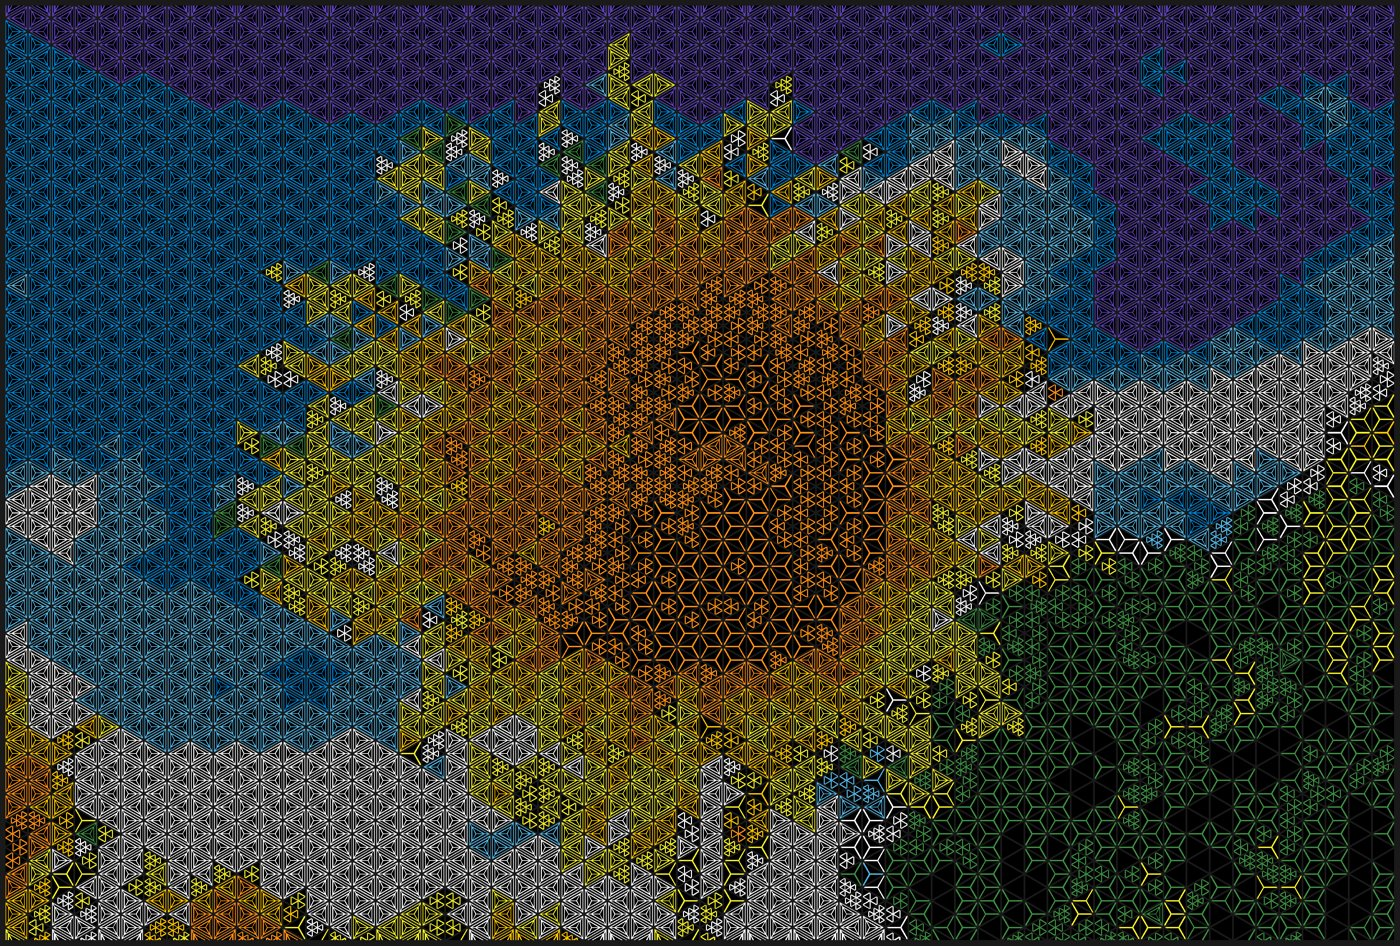
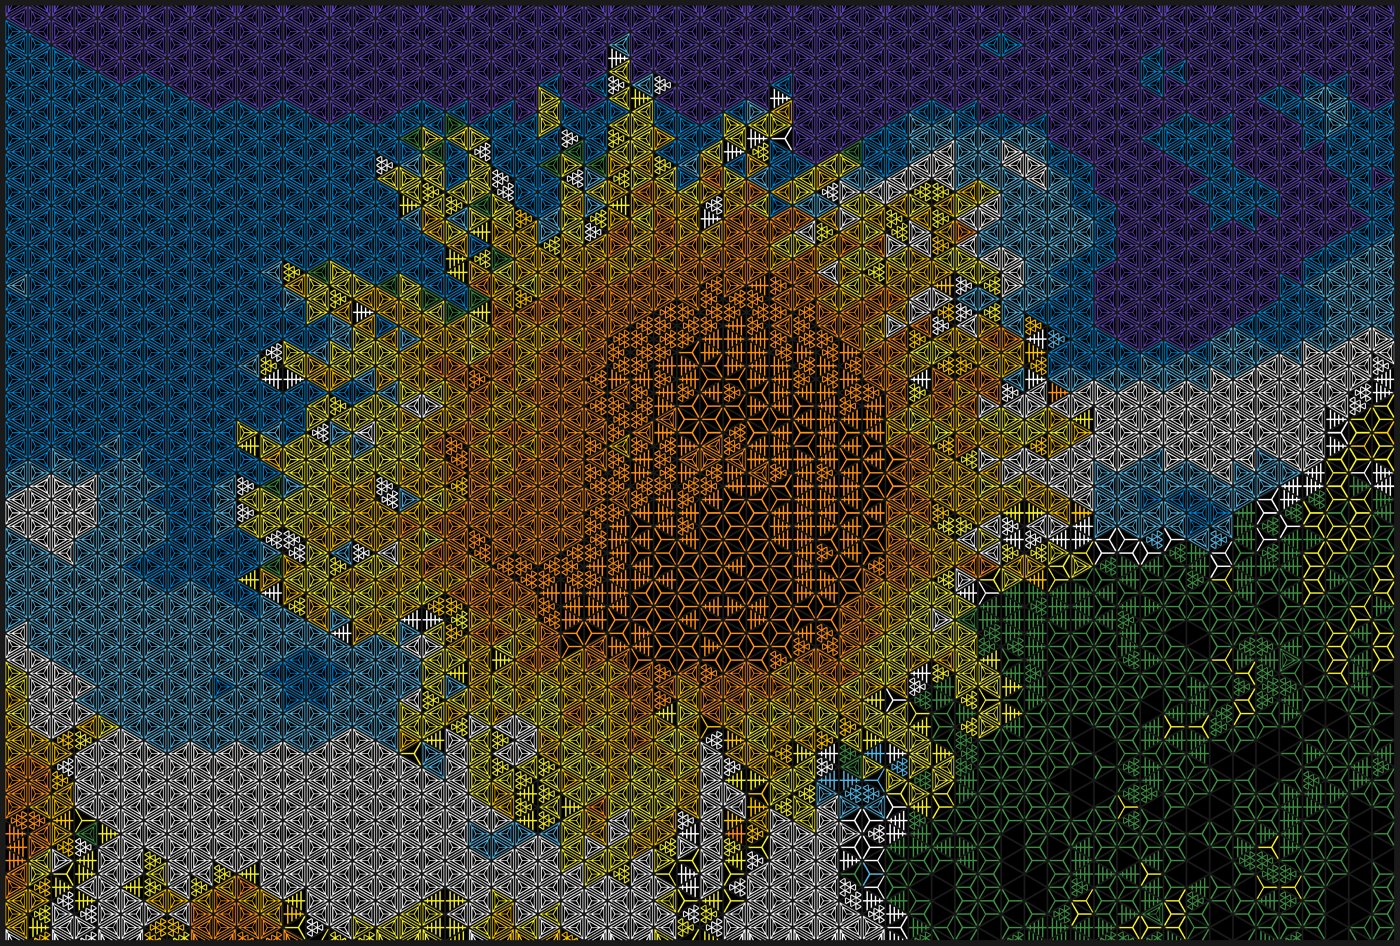
Line boost: require colour coherence so texture does not trigger it
Thin features must have a consistent colour (CIELAB spread < 34) to take over a cell;
threshold chosen by sweeping 20/26/34 on five sample images (cables kept, no new speckle).
Gallery rebuilt.

diff --git a/examples/gallery/index.html b/examples/gallery/index.html
@@ -2,26 +2,25 @@
 <style>body{font-family:system-ui;background:#1b1b1f;color:#eee;margin:20px} .card{margin-bottom:40px}
 .row{display:flex;gap:12px;align-items:flex-start;flex-wrap:wrap} img{max-width:46vw;max-height:70vh;border-radius:6px}
 h2{color:#d2ac86} .meta{font-size:13px;color:#bbb} .sw{display:inline-block;width:12px;height:12px;border:1px solid #666;margin-right:2px}</style></head><body>
-<h1>Before / after</h1><p class='meta'>Left: source as fitted to the lattice. Right: the planned panel drawn with the real insert silhouettes. Every insert is a kumiko line pattern (2 mm strips, openings at least 2.5 mm, at most 65% covered) in one of 8 purchasable Bambu PLA filaments over a black background insert, in a dark frame; a cell's tone comes only from line density. At most 4 distinct patterns per panel; thin-feature boost 4. Shown at 40 and 60 columns; the mm size follows the pitch (50 mm here). Rule of thumb: 40 columns reads from across a room, 60 is clearly the picture. Simple, bold subjects work best.</p>
-<h2>Line patterns available at 50 mm pitch</h2><img src='density_ladder.png' style='max-width:96vw'>
+<h1>Before / after</h1><p class='meta'>Left: source image as fitted to the lattice. Right: the planned panel drawn with the real insert silhouettes (strips carry the colour over a black background; density chosen per cell to match the image). Default = 40 columns; the mm size follows the pitch (50 mm here), so lower the pitch for a smaller panel with the same detail.</p>
 <div class='card'><h2>golden_gate_bridge</h2>
-<h3 style='font-size:14px'>default_40cols: 40 x 26, 1747.1 x 1318.0 mm, 2120 cells, 2086 pattern inserts <span class='sw' style='background:#FFFFFF'></span><span class='sw' style='background:#A3D8E1'></span><span class='sw' style='background:#5B6579'></span><span class='sw' style='background:#C12E1F'></span><span class='sw' style='background:#E8DBB7'></span><span class='sw' style='background:#56B7E6'></span><span class='sw' style='background:#9D432C'></span><span class='sw' style='background:#F99963'></span></h3><div class='row'><img src='golden_gate_bridge_source.jpg'><img src='golden_gate_bridge_default_40cols.jpg'></div>
+<h3 style='font-size:14px'>default_40cols: 40 x 26, 1747.1 x 1318.0 mm, 2120 cells, 2088 pattern inserts <span class='sw' style='background:#FFFFFF'></span><span class='sw' style='background:#A3D8E1'></span><span class='sw' style='background:#5B6579'></span><span class='sw' style='background:#C12E1F'></span><span class='sw' style='background:#56B7E6'></span><span class='sw' style='background:#9D432C'></span><span class='sw' style='background:#E8DBB7'></span><span class='sw' style='background:#7D6556'></span></h3><div class='row'><img src='golden_gate_bridge_source.jpg'><img src='golden_gate_bridge_default_40cols.jpg'></div>
 <h3 style='font-size:14px'>60cols: 60 x 39, 2613.1 x 1968.0 mm, 4740 cells, 4631 pattern inserts <span class='sw' style='background:#FFFFFF'></span><span class='sw' style='background:#A3D8E1'></span><span class='sw' style='background:#5B6579'></span><span class='sw' style='background:#E8DBB7'></span><span class='sw' style='background:#56B7E6'></span><span class='sw' style='background:#9D432C'></span><span class='sw' style='background:#C12E1F'></span><span class='sw' style='background:#FF6A13'></span></h3><div class='row'><img src='golden_gate_bridge_source.jpg'><img src='golden_gate_bridge_60cols.jpg'></div>
 </div>
 <div class='card'><h2>lighthouse</h2>
 <h3 style='font-size:14px'>default_40cols: 40 x 19, 1747.1 x 968.0 mm, 1560 cells, 1556 pattern inserts <span class='sw' style='background:#FFFFFF'></span><span class='sw' style='background:#0086D6'></span><span class='sw' style='background:#56B7E6'></span><span class='sw' style='background:#9B9EA0'></span><span class='sw' style='background:#F7D959'></span><span class='sw' style='background:#D3B7A7'></span><span class='sw' style='background:#847D48'></span><span class='sw' style='background:#DE4343'></span></h3><div class='row'><img src='lighthouse_source.jpg'><img src='lighthouse_default_40cols.jpg'></div>
-<h3 style='font-size:14px'>60cols: 60 x 29, 2613.1 x 1468.0 mm, 3540 cells, 3528 pattern inserts <span class='sw' style='background:#FFFFFF'></span><span class='sw' style='background:#56B7E6'></span><span class='sw' style='background:#0086D6'></span><span class='sw' style='background:#D3B7A7'></span><span class='sw' style='background:#F7D959'></span><span class='sw' style='background:#757575'></span><span class='sw' style='background:#BECF00'></span><span class='sw' style='background:#DE4343'></span></h3><div class='row'><img src='lighthouse_source.jpg'><img src='lighthouse_60cols.jpg'></div>
+<h3 style='font-size:14px'>60cols: 60 x 29, 2613.1 x 1468.0 mm, 3540 cells, 3529 pattern inserts <span class='sw' style='background:#FFFFFF'></span><span class='sw' style='background:#56B7E6'></span><span class='sw' style='background:#0086D6'></span><span class='sw' style='background:#D3B7A7'></span><span class='sw' style='background:#F7D959'></span><span class='sw' style='background:#757575'></span><span class='sw' style='background:#BECF00'></span><span class='sw' style='background:#DE4343'></span></h3><div class='row'><img src='lighthouse_source.jpg'><img src='lighthouse_60cols.jpg'></div>
 </div>
 <div class='card'><h2>red_fuji</h2>
-<h3 style='font-size:14px'>default_40cols: 40 x 23, 1747.1 x 1168.0 mm, 1880 cells, 1879 pattern inserts <span class='sw' style='background:#FF6A13'></span><span class='sw' style='background:#0086D6'></span><span class='sw' style='background:#A3D8E1'></span><span class='sw' style='background:#FFFFFF'></span><span class='sw' style='background:#0056B8'></span><span class='sw' style='background:#545454'></span><span class='sw' style='background:#E8DBB7'></span><span class='sw' style='background:#F99963'></span></h3><div class='row'><img src='red_fuji_source.jpg'><img src='red_fuji_default_40cols.jpg'></div>
-<h3 style='font-size:14px'>60cols: 60 x 35, 2613.1 x 1768.0 mm, 4260 cells, 4248 pattern inserts <span class='sw' style='background:#FF6A13'></span><span class='sw' style='background:#FFFFFF'></span><span class='sw' style='background:#0056B8'></span><span class='sw' style='background:#0086D6'></span><span class='sw' style='background:#A3D8E1'></span><span class='sw' style='background:#545454'></span><span class='sw' style='background:#E8DBB7'></span><span class='sw' style='background:#F99963'></span></h3><div class='row'><img src='red_fuji_source.jpg'><img src='red_fuji_60cols.jpg'></div>
+<h3 style='font-size:14px'>default_40cols: 40 x 23, 1747.1 x 1168.0 mm, 1880 cells, 1877 pattern inserts <span class='sw' style='background:#FF6A13'></span><span class='sw' style='background:#A3D8E1'></span><span class='sw' style='background:#0086D6'></span><span class='sw' style='background:#0056B8'></span><span class='sw' style='background:#FFFFFF'></span><span class='sw' style='background:#545454'></span><span class='sw' style='background:#E8DBB7'></span><span class='sw' style='background:#F99963'></span></h3><div class='row'><img src='red_fuji_source.jpg'><img src='red_fuji_default_40cols.jpg'></div>
+<h3 style='font-size:14px'>60cols: 60 x 35, 2613.1 x 1768.0 mm, 4260 cells, 4248 pattern inserts <span class='sw' style='background:#FF6A13'></span><span class='sw' style='background:#A3D8E1'></span><span class='sw' style='background:#0056B8'></span><span class='sw' style='background:#FFFFFF'></span><span class='sw' style='background:#0086D6'></span><span class='sw' style='background:#545454'></span><span class='sw' style='background:#E8DBB7'></span><span class='sw' style='background:#F99963'></span></h3><div class='row'><img src='red_fuji_source.jpg'><img src='red_fuji_60cols.jpg'></div>
 </div>
 <div class='card'><h2>starry_night</h2>
-<h3 style='font-size:14px'>default_40cols: 40 x 27, 1747.1 x 1368.0 mm, 2200 cells, 2192 pattern inserts <span class='sw' style='background:#0086D6'></span><span class='sw' style='background:#56B7E6'></span><span class='sw' style='background:#A3D8E1'></span><span class='sw' style='background:#8E9089'></span><span class='sw' style='background:#0056B8'></span><span class='sw' style='background:#5B6579'></span><span class='sw' style='background:#C2E189'></span><span class='sw' style='background:#F4EE2A'></span></h3><div class='row'><img src='starry_night_source.jpg'><img src='starry_night_default_40cols.jpg'></div>
+<h3 style='font-size:14px'>default_40cols: 40 x 27, 1747.1 x 1368.0 mm, 2200 cells, 2189 pattern inserts <span class='sw' style='background:#0086D6'></span><span class='sw' style='background:#56B7E6'></span><span class='sw' style='background:#A3D8E1'></span><span class='sw' style='background:#0056B8'></span><span class='sw' style='background:#8E9089'></span><span class='sw' style='background:#5B6579'></span><span class='sw' style='background:#C2E189'></span><span class='sw' style='background:#FFFFFF'></span></h3><div class='row'><img src='starry_night_source.jpg'><img src='starry_night_default_40cols.jpg'></div>
 <h3 style='font-size:14px'>60cols: 60 x 41, 2613.1 x 2068.0 mm, 4980 cells, 4977 pattern inserts <span class='sw' style='background:#0086D6'></span><span class='sw' style='background:#56B7E6'></span><span class='sw' style='background:#A3D8E1'></span><span class='sw' style='background:#545454'></span><span class='sw' style='background:#0056B8'></span><span class='sw' style='background:#E8DBB7'></span><span class='sw' style='background:#C2E189'></span><span class='sw' style='background:#F4EE2A'></span></h3><div class='row'><img src='starry_night_source.jpg'><img src='starry_night_60cols.jpg'></div>
 </div>
 <div class='card'><h2>sunflower</h2>
-<h3 style='font-size:14px'>default_40cols: 40 x 23, 1747.1 x 1168.0 mm, 1880 cells, 1850 pattern inserts <span class='sw' style='background:#0086D6'></span><span class='sw' style='background:#FFFFFF'></span><span class='sw' style='background:#5E43B7'></span><span class='sw' style='background:#FF9016'></span><span class='sw' style='background:#3F8E43'></span><span class='sw' style='background:#F4EE2A'></span><span class='sw' style='background:#FEC600'></span><span class='sw' style='background:#C2E189'></span></h3><div class='row'><img src='sunflower_source.jpg'><img src='sunflower_default_40cols.jpg'></div>
-<h3 style='font-size:14px'>60cols: 60 x 35, 2613.1 x 1768.0 mm, 4260 cells, 4171 pattern inserts <span class='sw' style='background:#0086D6'></span><span class='sw' style='background:#FFFFFF'></span><span class='sw' style='background:#5E43B7'></span><span class='sw' style='background:#FF9016'></span><span class='sw' style='background:#F4EE2A'></span><span class='sw' style='background:#3F8E43'></span><span class='sw' style='background:#56B7E6'></span><span class='sw' style='background:#FEC600'></span></h3><div class='row'><img src='sunflower_source.jpg'><img src='sunflower_60cols.jpg'></div>
+<h3 style='font-size:14px'>default_40cols: 40 x 23, 1747.1 x 1168.0 mm, 1880 cells, 1850 pattern inserts <span class='sw' style='background:#0086D6'></span><span class='sw' style='background:#FFFFFF'></span><span class='sw' style='background:#5E43B7'></span><span class='sw' style='background:#FF9016'></span><span class='sw' style='background:#F4EE2A'></span><span class='sw' style='background:#3F8E43'></span><span class='sw' style='background:#FEC600'></span><span class='sw' style='background:#C2E189'></span></h3><div class='row'><img src='sunflower_source.jpg'><img src='sunflower_default_40cols.jpg'></div>
+<h3 style='font-size:14px'>60cols: 60 x 35, 2613.1 x 1768.0 mm, 4260 cells, 4171 pattern inserts <span class='sw' style='background:#0086D6'></span><span class='sw' style='background:#FFFFFF'></span><span class='sw' style='background:#FF9016'></span><span class='sw' style='background:#5E43B7'></span><span class='sw' style='background:#F4EE2A'></span><span class='sw' style='background:#3F8E43'></span><span class='sw' style='background:#FEC600'></span><span class='sw' style='background:#56B7E6'></span></h3><div class='row'><img src='sunflower_source.jpg'><img src='sunflower_60cols.jpg'></div>
 </div>
 </body></html>

diff --git a/kumiko_mosaic/cli.py b/kumiko_mosaic/cli.py
@@ -38,6 +38,8 @@ def build_parser() -> argparse.ArgumentParser:
     i.add_argument("--fit", choices=["cover", "contain", "stretch"], default="cover")
     i.add_argument("--line-boost", type=float, default=4.0,
                    help="keep thin contrasting features that averaging erases (cables, masts); 4-8 is strong, 0 = off")
+    i.add_argument("--line-coherence", type=float, default=34.0,
+                   help="max colour spread of a thin feature to count as a line rather than texture (lower = fewer speckles)")
     i.add_argument("--palette", nargs="*", default=[], help='filaments you own: "name=#RRGGBB" ... (empty = auto)')
     i.add_argument("--max-colors", type=int, default=8)
     i.add_argument("--filament-set", choices=["bambu", "bambu-matte", "bambu-basic"], default="bambu",
@@ -86,7 +88,7 @@ def main(argv=None) -> int:
     bed = a.bed if len(a.bed) == 2 else [a.bed[0], a.bed[0]]
     params = Params(pitch=a.pitch, mitsuke=a.mitsuke, border=a.border, orientation=a.orientation,
                     width_mm=a.width_mm, height_mm=a.height_mm, cols=a.cols, rows=a.rows,
-                    max_cells=a.max_cells, measure=a.measure, fit=a.fit, line_boost=a.line_boost, palette=a.palette,
+                    max_cells=a.max_cells, measure=a.measure, fit=a.fit, line_boost=a.line_boost, line_coherence=a.line_coherence, palette=a.palette,
                     max_colors=a.max_colors, filament_set=a.filament_set, dither=a.dither, enhance=not a.no_enhance, color_layer=a.color_layer,
                     background_color=a.background_color, pattern_color=a.pattern_color, frame_color=a.frame_color,
                     pattern_mode=a.pattern_mode, max_patterns=a.max_patterns, min_hole_mm=a.min_hole, color_pattern_map=json.loads(a.color_pattern_map),

diff --git a/kumiko_mosaic/imagemap.py b/kumiko_mosaic/imagemap.py
@@ -170,7 +170,7 @@ def fit_image(img: Image.Image, target_w: float, target_h: float, mode: str = "c
 
 
 def sample_cells(grid: Grid, fitted: Image.Image, px_per_mm: float, shrink: float = 0.85,
-                 line_boost: float = 0.0, line_min_delta: float = 22.0) -> None:
+                 line_boost: float = 0.0, line_min_delta: float = 22.0, line_coherence: float = 34.0) -> None:
     """Set cell.rgb_mean = mean colour inside each (slightly shrunken) cell polygon.
 
     line_boost > 0 keeps thin, strongly contrasting features (cables, masts, outlines) that
@@ -206,10 +206,14 @@ def sample_cells(grid: Grid, fitted: Image.Image, px_per_mm: float, shrink: floa
             d = np.sqrt(((lab - rgb_to_lab(med)) ** 2).sum(1))
             feat = d > line_min_delta
             f = feat.mean()
-            if 0.02 < f < 0.5:
-                feat_col = pix[feat].mean(0)
-                w = min(1.0, f * line_boost)
-                mean = med + (feat_col - med) * w
+            if 0.03 < f < 0.45:
+                # a real thin feature has one coherent colour; texture noise does not
+                fl = lab[feat]
+                spread = float(np.sqrt(((fl - fl.mean(0)) ** 2).sum(1)).mean())
+                if spread < line_coherence:
+                    feat_col = pix[feat].mean(0)
+                    w = min(1.0, f * line_boost)
+                    mean = med + (feat_col - med) * w
         c.rgb_mean = tuple(float(v) for v in mean)
 
 

diff --git a/kumiko_mosaic/pipeline.py b/kumiko_mosaic/pipeline.py
@@ -34,6 +34,7 @@ class Params:
     enhance: bool = True                   # autocontrast + mild saturation boost before sampling
     sample_shrink: float = 0.85
     line_boost: float = 4.0                # keep thin contrasting features (cables, masts); 0 = off, 8 = strong
+    line_coherence: float = 34.0           # max colour spread (CIELAB) of a feature to count as a line, not texture
     # colours
     palette: List[str] = field(default_factory=list)   # filaments you own ("Name=#hex"); empty -> pick from filament_set
     filament_set: str = "bambu"            # purchasable catalogue to pick from: bambu | bambu-matte | bambu-basic
@@ -86,7 +87,8 @@ def run(image_path: str, out_dir: str, params: Params) -> dict:
     patf = _split_named(params.pattern_color)
     fitted, ppm = fit_image(img, grid.lattice_width, grid.lattice_height, params.fit, background=bgf.hex,
                             enhance=params.enhance)
-    sample_cells(grid, fitted, ppm, params.sample_shrink, line_boost=params.line_boost)
+    sample_cells(grid, fitted, ppm, params.sample_shrink, line_boost=params.line_boost,
+                 line_coherence=params.line_coherence)
     palette = parse_palette(params.palette) if params.palette else None
     coverage = None
     if params.pattern_mode.startswith("auto") and params.color_layer == "pattern":

diff --git a/README.md b/README.md
@@ -142,7 +142,10 @@ dense patterns survive the `--min-hole` test (at 30 mm only `y, asanoha, mesh2, 
 * `--line-boost 4` (default) keeps thin, strongly contrasting features that plain averaging
   erases: if a small part of a cell differs sharply from the rest (a cable, a mast, an
   outline), the cell takes that colour, so the feature survives as a one-cell line. 0 turns it
-  off, 8 is aggressive and can add speckle in textured areas.
+  off, 8 is aggressive and can add speckle in textured areas. Only features with a coherent
+  colour qualify (`--line-coherence`, default 34; lower it if textured areas get speckled).
+  Checked on all five gallery images: bridge cables and Fuji's snow streaks appear, the
+  sunflower and lighthouse are unchanged.
 * `--dither` adds error diffusion (smoother gradients, noisier look).
 
 Look at `examples/gallery/index.html` (also served at `/gallery` by the web app): before/after
